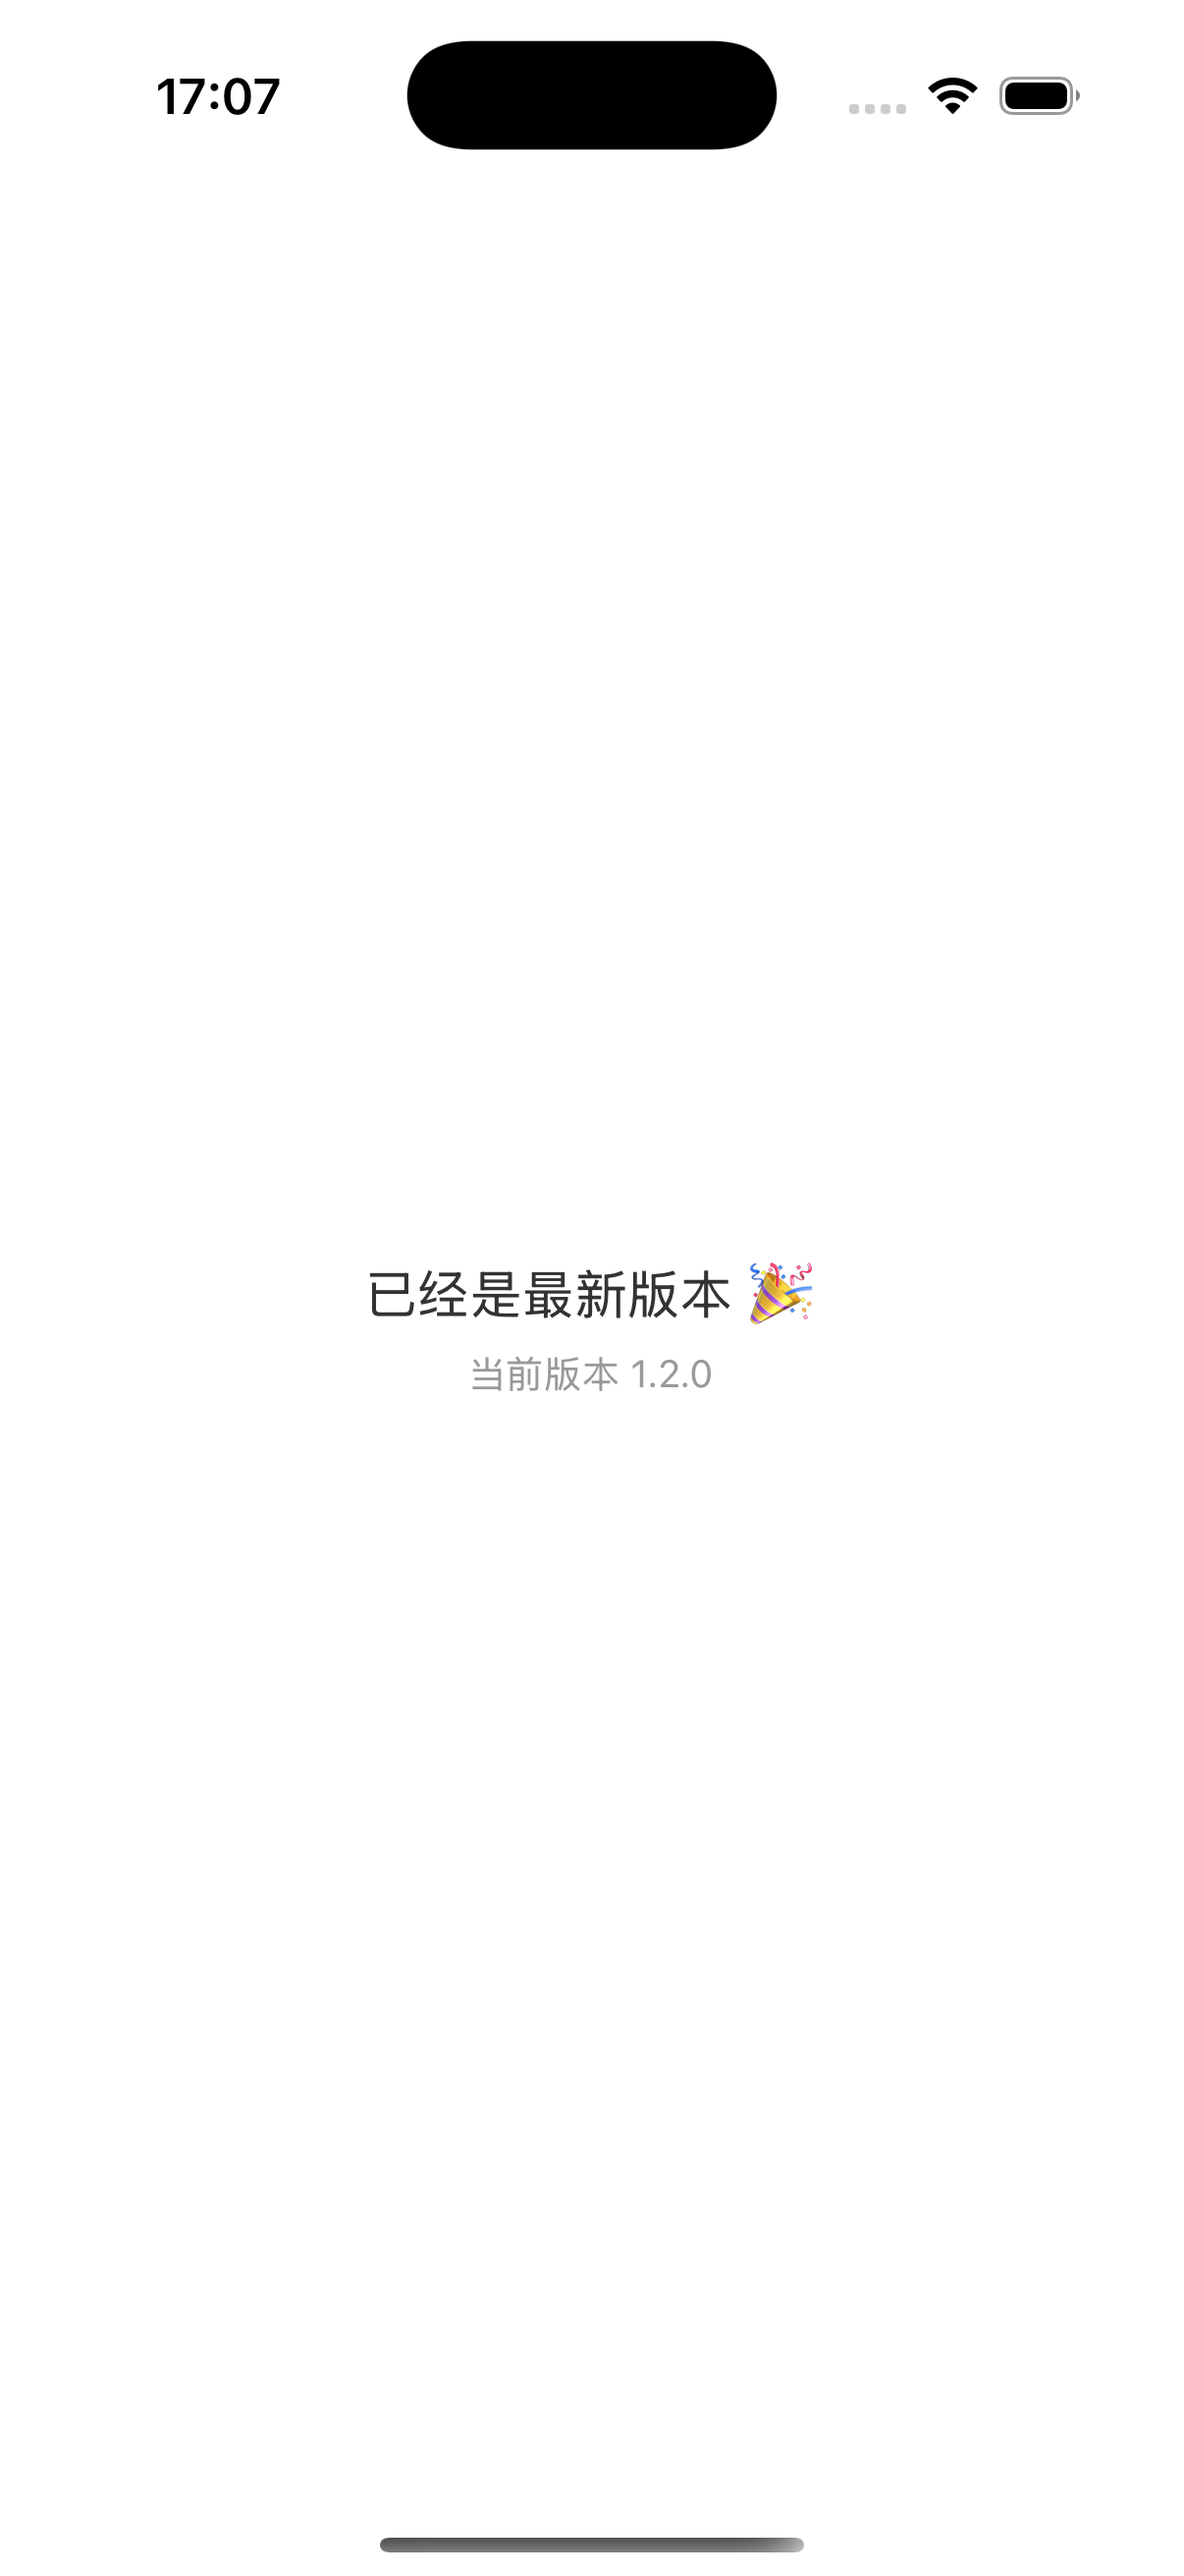
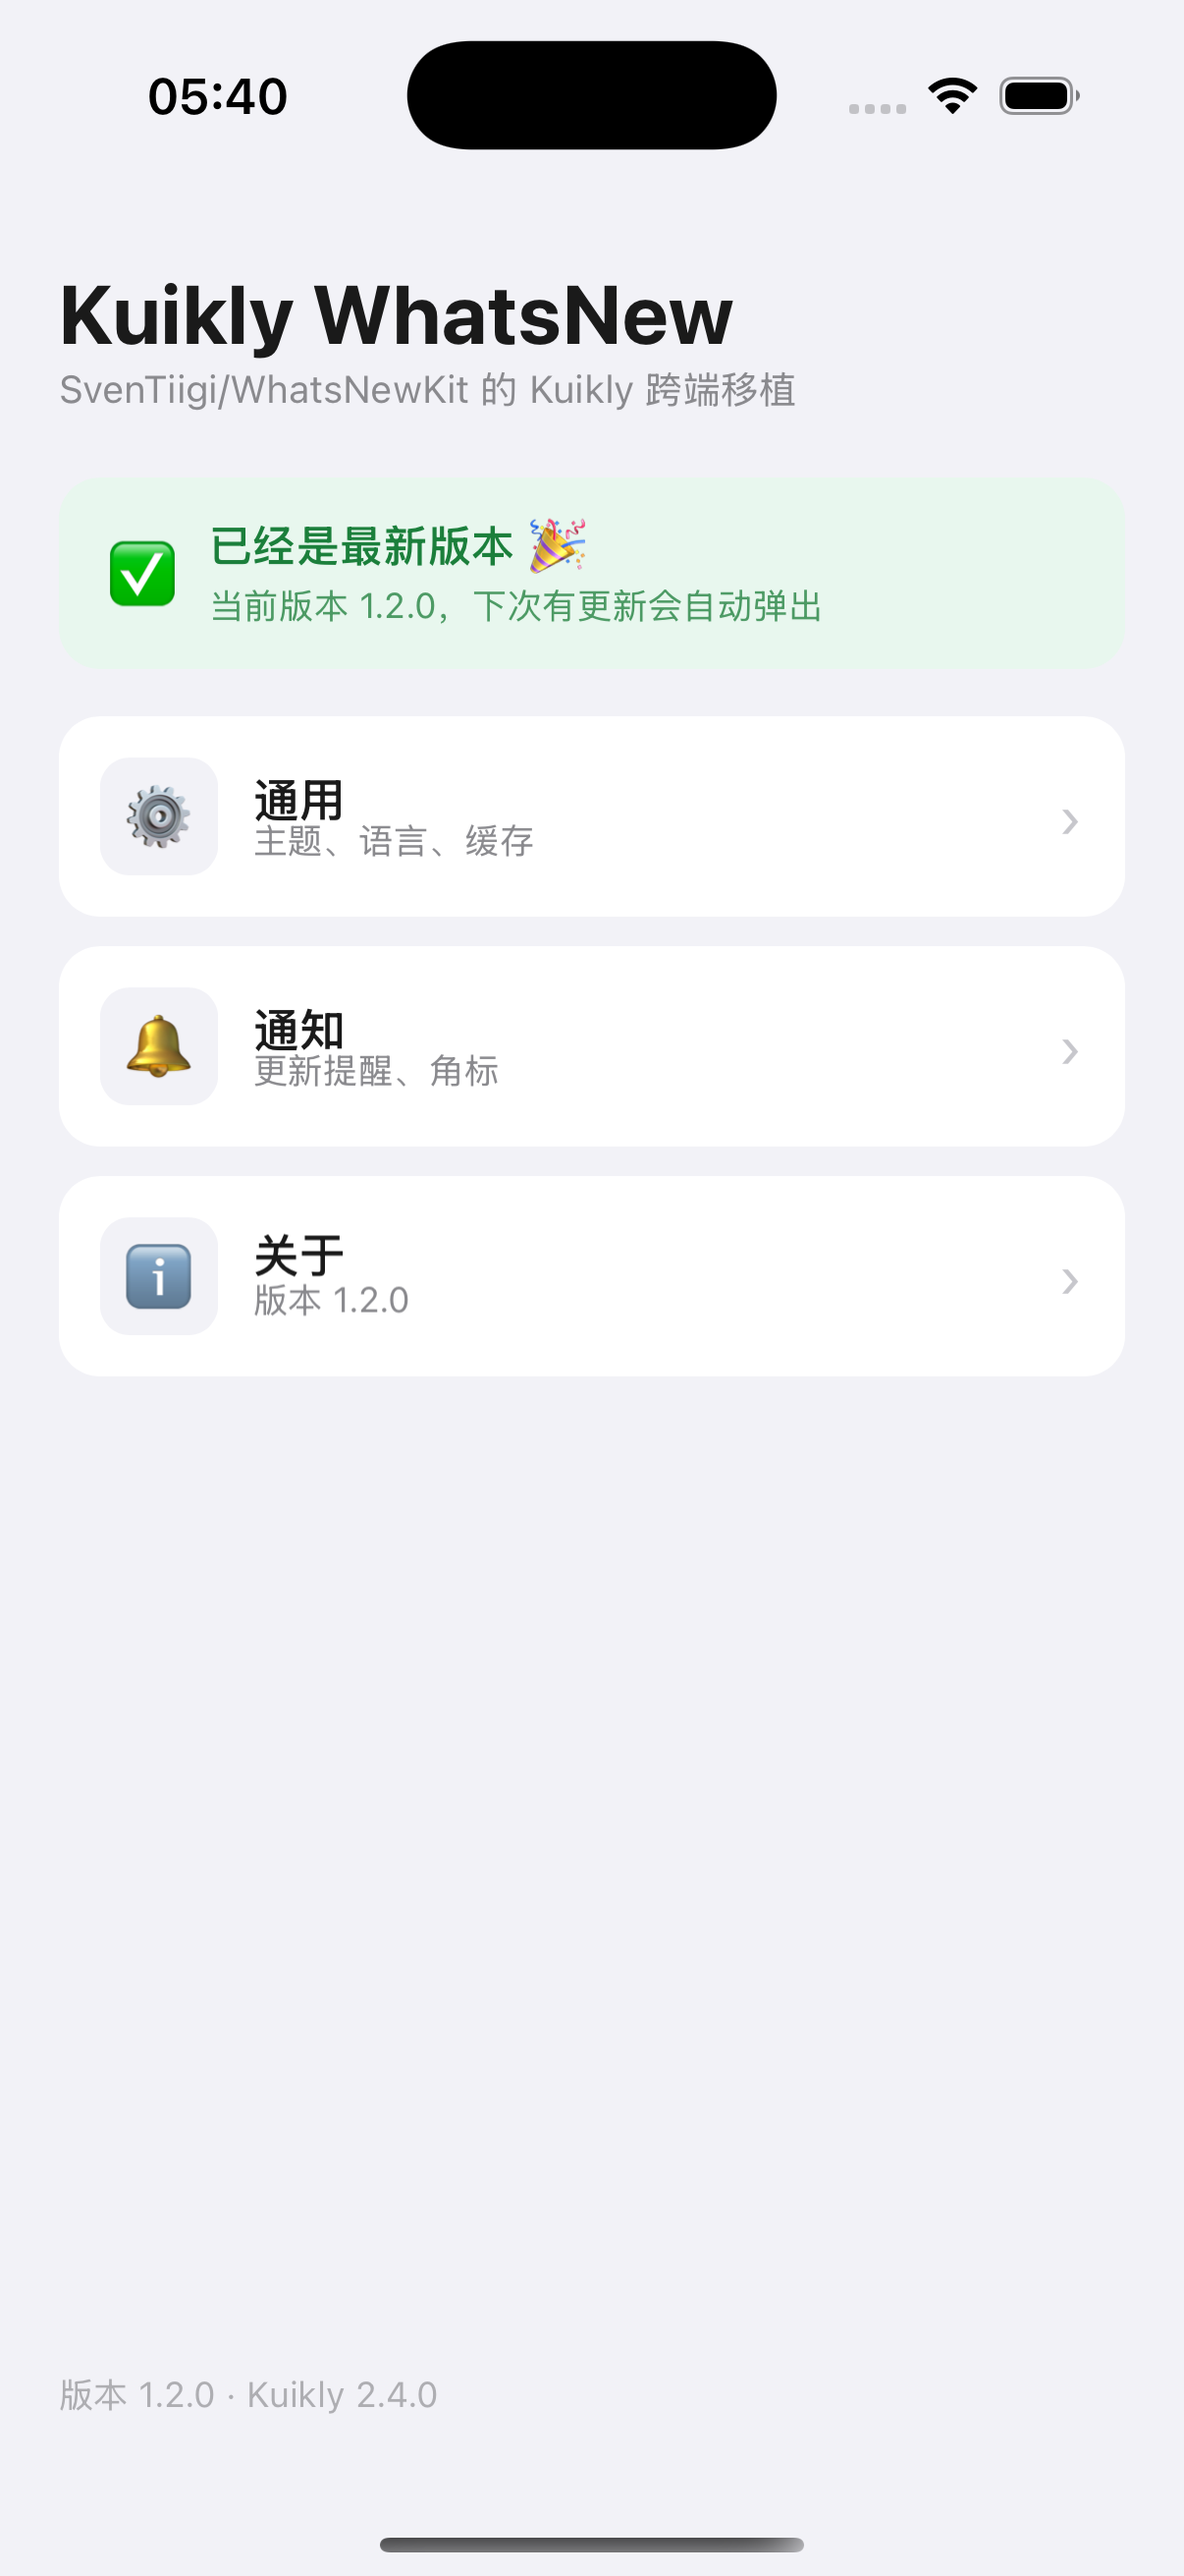
docs(ios): re-capture caught-up screenshot with the overlay build
屏幕解锁后 xcodebuild test 跑通（testTapPrimaryAction passed 23.45s），
真点卡片主按钮 → 重启 → simctl 截图，ios-02 现在是新版弹层布局。
同时记录「锁屏时 simctl / xcodebuild test 会挂死」这个坑。

diff --git a/README.md b/README.md
@@ -71,10 +71,6 @@ KuiklyUI 源码构建，另外 Kotlin/JS 2.0.21 有个导出 bug 需要在本地
 > iOS 的「点继续」不是手工点的：`iosApp/iosAppUITests` 里的 UI 测试用归一化坐标真点了一下
 > 卡片上的主按钮，然后再重启 App 截图。命令见
 > [docs/VERIFICATION.md](docs/VERIFICATION.md#35-ios-真实渲染截图)。
->
-> ⚠ 目前 iOS 的第二张（`ios-02-caught-up.png`）还是弹层改造前拍的整页布局：这一轮重截时
-> 本机屏幕被锁，`xcodebuild test` / `simctl` 都起不来，只有第一张是新版。解除锁屏后按
-> VERIFICATION 3.5.1 的第 4、5 步重拍即可（Android / H5 / 小程序的三对图都是新版的弹层）。
 
 小程序侧还要额外编一个 `:miniApp` 渲染入口（官方壳要的 `renderView` / `initApp` /
 `fontLoaded` 都在这个模块里，`core-render-web:miniapp` 本身只导出 `kotlin` / `com`），
@@ -86,7 +82,7 @@ KuiklyUI 源码构建，另外 Kotlin/JS 2.0.21 有个导出 bug 需要在本地
 | 平台 | 截图 | 说明 |
 |------|------|------|
 | Android | ✅ 已覆盖 | 上面的两张，AVD `Medium_Phone_API_37.0` + Kuikly `2.4.0-2.0.21` |
-| iOS | ✅ 已覆盖 | 第一张是新版弹层；第二张仍是改造前的整页布局，重拍步骤见 VERIFICATION 3.5.1 |
+| iOS | ✅ 已覆盖 | 上面的两张，iPhone 16 Pro 模拟器（iOS 18.3）+ Kotlin/Native `shared.framework` + `OpenKuiklyIOSRender`，第二张由 UI 测试真实点击后重启截取 |
 | HarmonyOS | ⏳ 未覆盖 | 需要 DevEco Studio + OHOS SDK，`core-render-ohos` 也没有公开 Maven 产物 |
 | H5 | ✅ 已覆盖 | 上面的两张，Chromium + `core-render-web`（源码构建）+ 官方 `h5App-js` 壳 |
 | 微信小程序 | ✅ 已覆盖 | 上面的两张，微信开发者工具 + `core-render-web:miniapp`（源码构建）+ 官方 `miniApp` 壳，测试号 AppID |

diff --git a/docs/VERIFICATION.md b/docs/VERIFICATION.md
@@ -202,11 +202,12 @@ node h5shot.js
 | <img src="images/ios-01-whatsnew.png" width="240"> | iPhone 16 Pro 模拟器（iOS 18.3），Kotlin/Native `shared.framework` + 官方 `OpenKuiklyIOSRender` 渲染；宿主界面 + `WhatsNewOverlay` 弹层 |
 | <img src="images/ios-02-caught-up.png" width="240"> | UI 测试真点了一下卡片上的「继续」→ 重启 App：`NSUserDefaults` 里已有 `presented_all=1.2.0`，弹层不再出现，宿主界面顶部显示「已经是最新版本」 |
 
-> ⚠ **`ios-02` 还是弹层改造前的整页布局**（2026-10-30 17:07 那张）。弹层这一轮重截时
-> 这台机器的屏幕被锁了（`CGSSessionScreenIsLocked = 1`）：`xcodebuild test` 卡在
-> test session 启动前，`simctl boot` / `simctl install` 也一起挂住，所以第二张没能重拍。
-> `ios-01` 是新版（弹层）。解除锁屏后按 [3.5.1](#351-复现步骤) 的第 4、5 步跑一遍即可重拍，
-> 命令和 `dy` 坐标都已经写好了。
+> 这两张都是 2026-10-31 重拍的：`xcodebuild test` 输出
+> `Test Case '-[iosAppUITests.WhatsNewUITests testTapPrimaryAction]' passed (23.453 seconds)`，
+> 之后 `simctl terminate` + `launch` + `simctl io screenshot`。
+> 中途踩到过一次「屏幕锁定时 `xcodebuild test` / `simctl boot` 全部挂住」
+> （`CGSSessionScreenIsLocked = 1`），解锁后一次就过了 —— 如果你在 CI 上跑 UI 测试，
+> 记得 runner 必须处于已登录且未锁屏的图形会话里。
 
 页面源码是 [`shared/src/iosMain/.../WhatsNewIosDemoPage.kt`](../shared/src/iosMain/kotlin/io/github/Richard102257/whatsnew/shared/WhatsNewIosDemoPage.kt)，
 组件本身还是 `:whatsnew` 的 commonMain 代码。和 Android / H5 页面相比只差两点：
